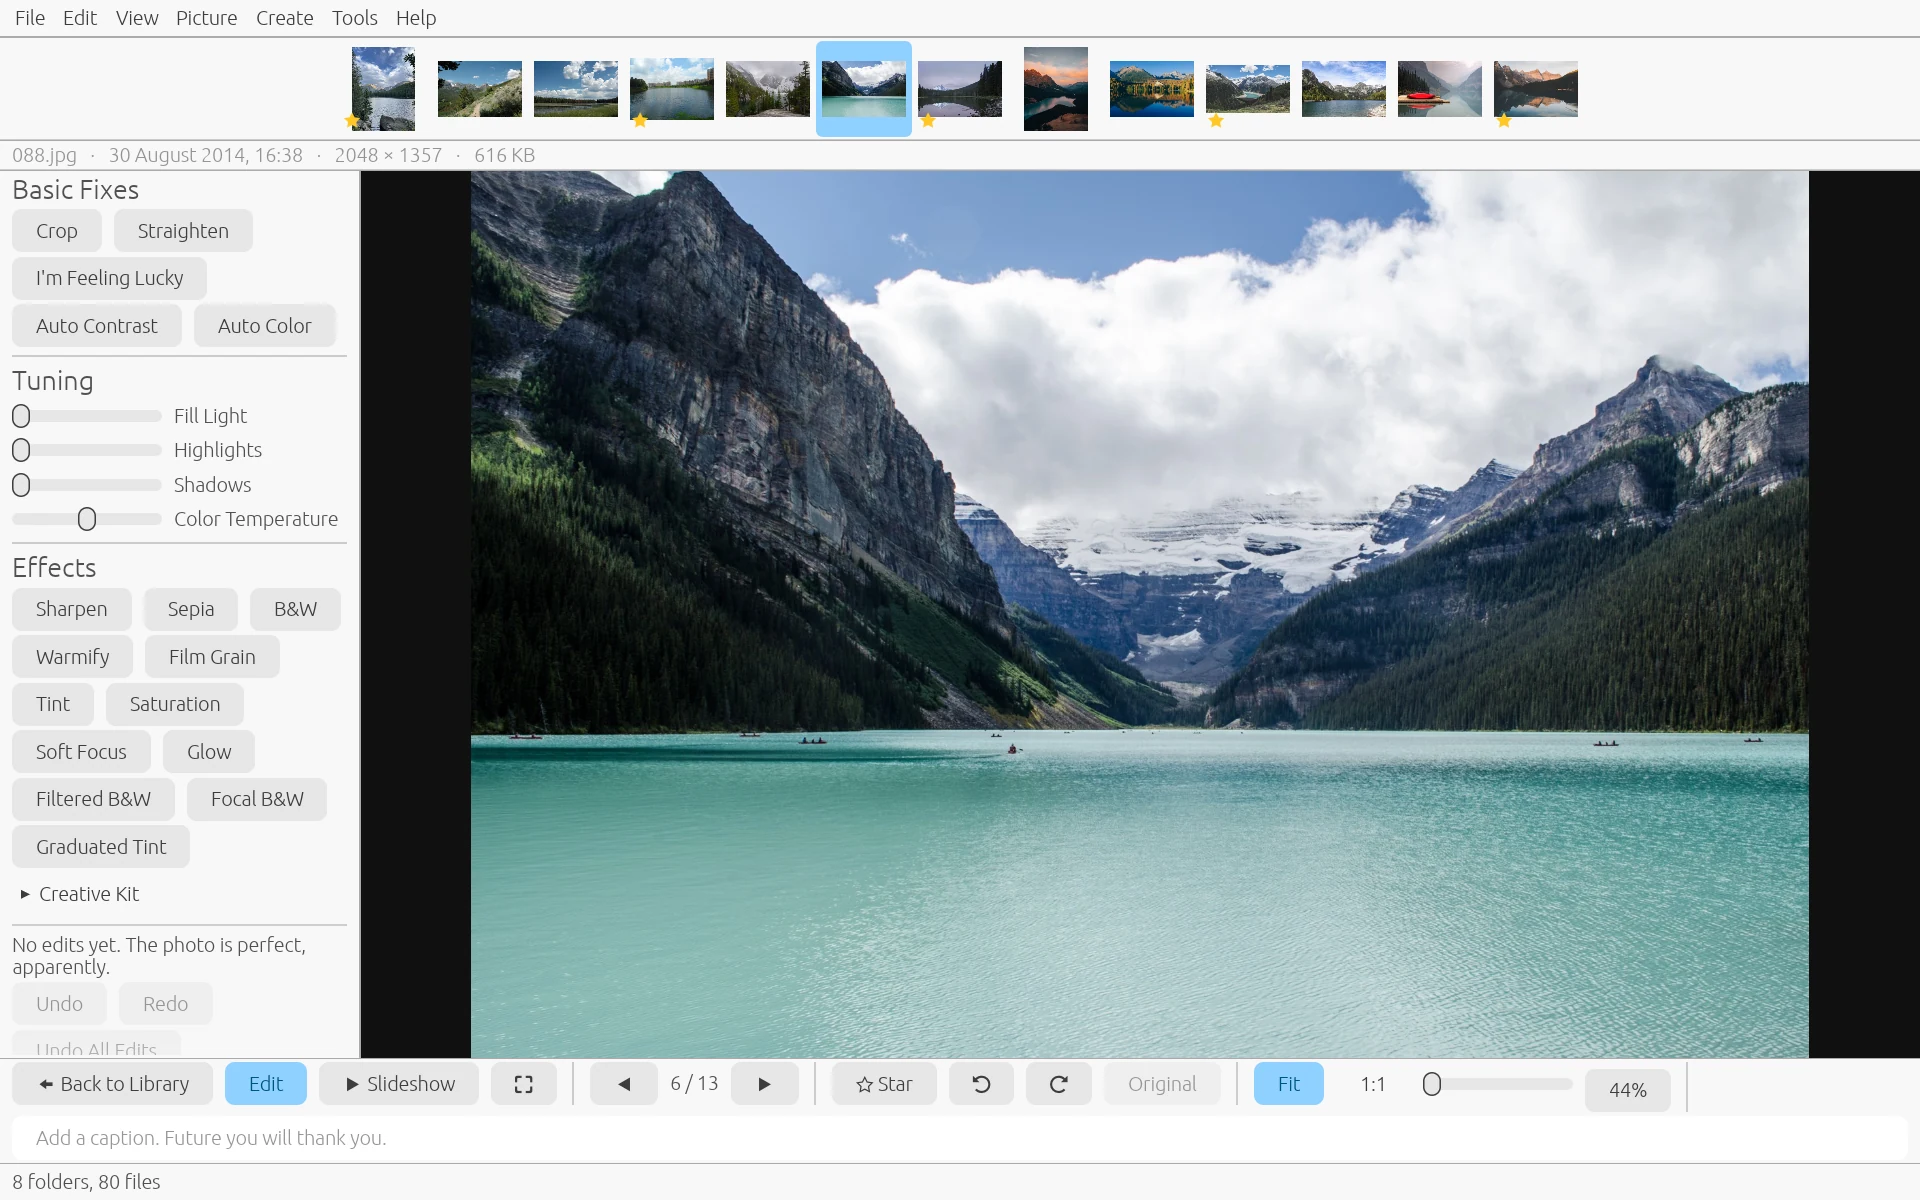
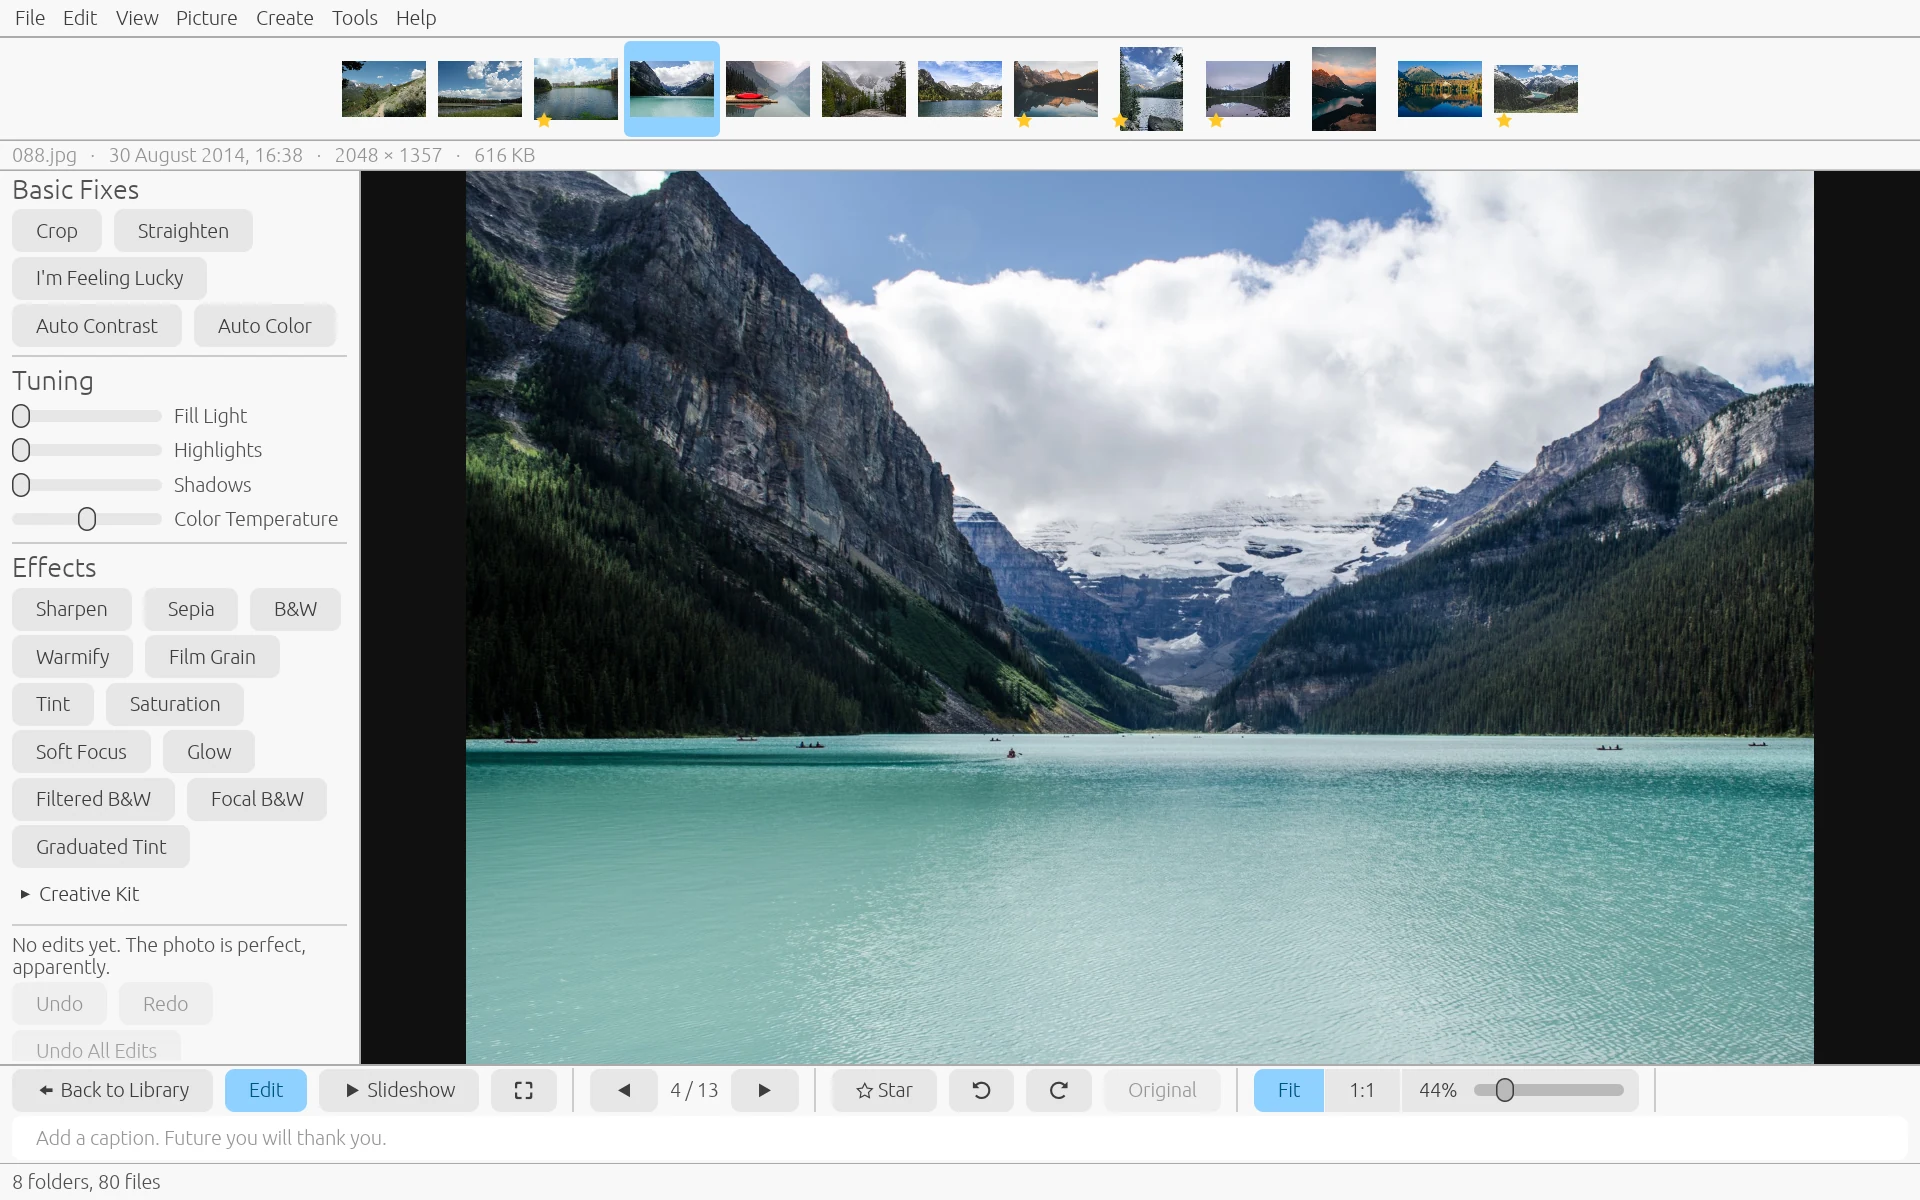
Version 0.6.0, its release notes, fresh screenshots; the demo library and data downloads kept in testdata

Changed region(s): [[0.0312, 0.0308, 1.0, 0.925], [0.4375, 0.5242, 0.4688, 0.555], [0.3125, 0.4625, 0.3438, 0.4933]]

diff --git a/docs/releases/v0.6.0.md b/docs/releases/v0.6.0.md
@@ -1,0 +1,129 @@
+Pico 0.6.0 opens camera RAW files without ffmpeg, sorts by when the photos
+were really taken, and gets a new zoom switch and play button. On Windows,
+ffmpeg no longer flashes console windows.
+
+*Русская версия — ниже.*
+
+## Downloads
+
+- **Linux x86_64**: `pico-linux-x86_64.tar.gz`. Runs on distributions with
+  glibc 2.28 or newer (roughly 2019 on).
+- **Windows 10/11, 64-bit**: `pico-windows-x86_64.zip`. For videos, put
+  `ffmpeg.exe`, `ffprobe.exe` and `ffplay.exe` next to `pico.exe`.
+
+Checksums are in `SHA256SUMS.txt`.
+
+## Photos
+
+- **Camera RAW** files show the JPEG the camera keeps inside them, at full
+  size where the camera stores it: Sony ARW (A7C II included), Nikon NEF and
+  NRW (High Efficiency too), Canon CR2, DNG, Fujifilm RAF and other
+  TIFF-based RAWs. No ffmpeg needed for them.
+
+## Library
+
+- **File names** show under the thumbnails by default.
+- **Sorting by date taken** is the default. A file without a date taken sorts
+  by the date in its name (`IMG_20220421_153012`, `VID_…`, `Screenshot_…`),
+  otherwise by the earlier of its creation and modification times. All dates
+  are brought to the computer's time zone, so videos (dated in UTC) sit among
+  the photos shot around them.
+- The **video mark** on thumbnails sits on the picture in a dark disc, visible
+  on the light theme.
+- **Folder Manager** opens the tree to every watched folder.
+
+## Viewer
+
+- **Zoom** is a switch of three: **Fit**, **1:1** and the zoom in percent with
+  a slider from 30% to 300% inside it. The chosen mode stays from photo to
+  photo and between runs.
+- **F** toggles full screen, as F11 does.
+
+## Videos
+
+- A **white play sign** over a paused video turns into the pause sign when it
+  plays; the pause sign fades and comes back when the mouse moves.
+- A **click** on the video plays or pauses it at once.
+- **Sharper**: frames are decoded at the video's own size, up to the
+  screen's, instead of 1280 pixels wide.
+- In the **slideshow**, a video starts from its beginning and crossfades into
+  the next slide while it still plays; a click or Space pauses it without
+  replaying the fade.
+
+## Windows
+
+- ffmpeg, ffprobe and ffplay run **without console windows**.
+- ffmpeg tools copied next to `pico.exe` while Pico runs are **picked up**
+  without a restart.
+
+## Known limitations
+
+- The Windows build is not signed, so SmartScreen may warn on the first
+  start: click **More info → Run anyway**.
+- Canon CR3 and Nikon N-RAW videos are not read yet.
+
+---
+
+# Pico 0.6.0 (по-русски)
+
+Pico 0.6.0 открывает RAW-файлы камер без ffmpeg, сортирует по тому, когда
+фото действительно сняты, и получил новый переключатель масштаба и кнопку
+воспроизведения. В Windows ffmpeg больше не мелькает окнами консоли.
+
+## Загрузки
+
+- **Linux x86_64** — `pico-linux-x86_64.tar.gz`. Работает на дистрибутивах
+  с glibc 2.28 и новее (примерно с 2019 года).
+- **Windows 10/11, 64 бита** — `pico-windows-x86_64.zip`. Для видео положите
+  `ffmpeg.exe`, `ffprobe.exe` и `ffplay.exe` рядом с `pico.exe`.
+
+Контрольные суммы лежат в `SHA256SUMS.txt`.
+
+## Фото
+
+- **RAW-файлы камер** показываются по JPEG, который камера хранит внутри, в
+  полном размере, если камера его сохраняет: Sony ARW (в том числе A7C II),
+  Nikon NEF и NRW (и High Efficiency), Canon CR2, DNG, Fujifilm RAF и другие
+  RAW на основе TIFF. ffmpeg для них не нужен.
+
+## Библиотека
+
+- **Имена файлов** под миниатюрами показываются по умолчанию.
+- **Сортировка по дате съёмки** — по умолчанию. Файл без даты съёмки встаёт
+  по дате из имени (`IMG_20220421_153012`, `VID_…`, `Screenshot_…`), иначе по
+  более ранней из дат создания и изменения. Все даты приводятся к часовому
+  поясу компьютера, поэтому видео (их дата в UTC) стоят среди снятых рядом
+  фото.
+- **Значок видео** на миниатюрах стоит на самой картинке в тёмном кружке и
+  виден в светлой теме.
+- **Folder Manager** раскрывает дерево до всех отслеживаемых папок.
+
+## Просмотр
+
+- **Масштаб** — переключатель из трёх частей: **Fit**, **1:1** и масштаб в
+  процентах с ползунком от 30% до 300% внутри. Выбранный режим сохраняется
+  при листании и между запусками.
+- **F** включает и выключает полный экран, как F11.
+
+## Видео
+
+- **Белый значок ▶** поверх видео на паузе поворачивается в ⏸, когда видео
+  играет; пауза гаснет и появляется снова при движении мыши.
+- **Щелчок** по видео сразу запускает его или ставит на паузу.
+- **Чётче**: кадры декодируются в размере самого видео, но не больше экрана,
+  а не в 1280 пикселей по ширине.
+- В **слайд-шоу** видео начинается с начала и плавно сменяется следующим
+  слайдом, продолжая играть; щелчок или пробел ставят на паузу, не повторяя
+  переход.
+
+## Windows
+
+- ffmpeg, ffprobe и ffplay запускаются **без окон консоли**.
+- Программы ffmpeg, положенные рядом с `pico.exe` во время работы Pico,
+  **подхватываются** без перезапуска.
+
+## Известные ограничения
+
+- Сборка для Windows не подписана, поэтому SmartScreen может предупредить при
+  первом запуске: нажмите **Подробнее → Выполнить в любом случае**.
+- Canon CR3 и видео Nikon N-RAW пока не читаются.

diff --git a/README.md b/README.md
@@ -148,8 +148,9 @@ tests), `make testdata` (a test library in `testdata/library`, see
   selected folder, **Watch for photos** or **Leave out of Pico** on the right.
   The rule of the nearest folder wins: you can watch `~/Pictures`, leave out
   `~/Pictures/Screenshots`, and inside it turn one folder back on. The path can
-  be typed in or picked with the system dialog (**Browse…**). Changes apply on
-  **OK**; the files themselves are not touched.
+  be typed in or picked with the system dialog (**Browse…**). The tree opens to
+  every watched folder. Changes apply on **OK**; the files themselves are not
+  touched.
 - The **Photo Tray** is hidden until **View → Photo Tray** turns it on; albums
   do its job for most. Then it sits at the bottom: while it is empty, it shows
   the selection; **Hold** (**Ctrl+H**) puts the selected photos into the tray,
@@ -195,10 +196,14 @@ tests), `make testdata` (a test library in `testdata/library`, see
   thumbnail opens it. The filmstrip can be hidden: **View → Filmstrip**. The
   bar below the photo takes more rows where the window is narrow.
 - The mouse wheel over a photo flips through the shots, **Ctrl+wheel** (or a
-  pinch on a touchpad) zooms around the pointer. At the bottom are **Fit**,
-  **1:1** and a slider up to 800%; a zoomed photo can be dragged with the
-  mouse. When you zoom into a large shot, Pico loads it at full resolution, so
-  1:1 shows real pixels. Two photos on each side are prepared in advance, so
+  pinch on a touchpad) zooms around the pointer. At the bottom is a switch of
+  three: **Fit** (the whole photo in the window), **1:1** (one photo pixel per
+  screen pixel) and the zoom in percent with a slider from 30% to 300% inside
+  it. The percent shows the zoom on screen; a click on it, the slider or
+  Ctrl+wheel keep that zoom. The chosen mode stays from photo to photo and
+  between runs. A zoomed photo can be dragged with the mouse. When you zoom
+  into a large shot, Pico loads it at full resolution, so 1:1 shows real
+  pixels. Two photos on each side are prepared in advance, so
   paging shows no blank frame.
 - Above the photo is a line about it: name, date taken (from EXIF; for MP4 and
   MOV videos, when they were recorded; otherwise the file date), size in pixels (after a crop — the original
@@ -294,9 +299,13 @@ them into the file, use **File → Save** (the original is kept in
 ### Video
 
 Videos open the same way as photos. **/** or **Space** — play/pause (or the
-golden ▶ over a paused video, or a click on the picture), **,** and **.** — 5 seconds back/forward, the slider seeks,
-**Mute** turns the sound off. **Save Frame as Photo** in the bottom bar saves
-the current frame next to the video. In a slideshow a video plays to the end.
+white ▶ over a paused video, or a click on the picture), **,** and **.** — 5
+seconds back/forward, the slider seeks, **Mute** turns the sound off. When the
+video plays, ▶ turns into ⏸, which fades a second later and comes back for two
+seconds when the mouse moves over the picture. Frames are decoded at the
+video's own size, up to the screen's. **Save Frame as Photo** in the bottom bar saves
+the current frame next to the video. In a slideshow a video plays to the end, from its start, and crossfades into
+the next slide while it still plays.
 A video turned with the rotate buttons plays turned, in slideshows too, and
 its saved frames are turned the same way. Videos are not edited in Pico:
 **Edit** is greyed out for them.
@@ -324,7 +333,8 @@ also sets it as the wallpaper (GNOME).
 ### Slideshow
 
 **Ctrl+4** or **View → Slideshow** — full screen. **Space** — pause, arrows —
-previous and next, **−/+** — display time, **Esc** — exit.
+previous and next, **−/+** — display time, **Esc** — exit. On a video, a click
+on the picture also pauses and plays it, and ▶ / ⏸ show when the mouse moves.
 
 ### Files
 
@@ -383,7 +393,7 @@ language is in `crates/pico/po/README.md`.
   library's folders and the ones left out of it.
 - `~/.config/pico/settings.txt` — what Pico remembers between runs: thumbnail
   size, captions, sorting, the filmstrip, the Photo Tray, the folder list view,
-  the properties panel, theme, language, animations, the window size, the widths of the left and right panels, which
+  the properties panel, the zoom mode, theme, language, animations, the window size, the widths of the left and right panels, which
   sections on the left and in the properties panel are open, and the last open
   folder (`key=value` lines, can be edited by hand; written a second after a
   change and on exit).

diff --git a/testdata/README.md b/testdata/README.md
@@ -25,3 +25,14 @@ cargo test -p pico testdata_tour -- --ignored   # screenshots of every folder in
 | `12-nested` | Nested folders and a hidden `.picasaoriginals` backup |
 
 Expected looks are written into each folder's name or captions.
+
+## Kept locally, not committed
+
+These folders live in the project so they are at hand for every release and
+never lost or downloaded again; they are too big for the repository.
+
+| Folder | What it is | Where it came from |
+|---|---|---|
+| `demo-photos/` | The demo library of the README and website screenshots (`make screenshots`), 80 photos in 8 topics with `.picasa.ini` files | CC0 photos from Wikimedia Commons, listed in `docs/screenshots/make_screenshots.py`; `make screenshots` downloads only the ones missing |
+| `data-download/` | What `make places`, `make exif-tags` and `make maker-tags` download (GeoNames, Natural Earth, exiv2 and ExifTool tag pages, ExifRead); its `exifread` tests hold a few more RAW samples | The sources in `docs/data-updates.md`; those targets download afresh each time |
+| `raw-samples/` | Camera RAW files for `crates/pico-core/src/raw.rs` (its `real_raw_files` test reads them): Sony ILCE-7CM2 ARW, Nikon Z8 NEF | CC0 samples from [raw.pixls.us](https://raw.pixls.us/) (`Sony/ILCE-7CM2`, `Nikon/Z 8`) |

diff --git a/docs/data-updates.ru.md b/docs/data-updates.ru.md
@@ -9,7 +9,8 @@
 разработчика, и попадает в репозиторий готовыми файлами.
 
 Нужны `curl`, `unzip` и Python 3 (только стандартная библиотека). Скачанное
-складывается в `target/data-download/` и в git не попадает.
+складывается в `testdata/data-download/`: остаётся между запусками и в git не
+попадает.
 
 ## Названия мест (Places)
 

diff --git a/docs/data-updates.md b/docs/data-updates.md
@@ -10,7 +10,8 @@ here, on the developer's machine, and lands in the repository as ready-made
 files.
 
 You need `curl`, `unzip` and Python 3 (standard library only). Downloads go
-into `target/data-download/` and stay out of git.
+into `testdata/data-download/`, which is kept between runs and stays out of
+git.
 
 ## Place names (Places)
 
